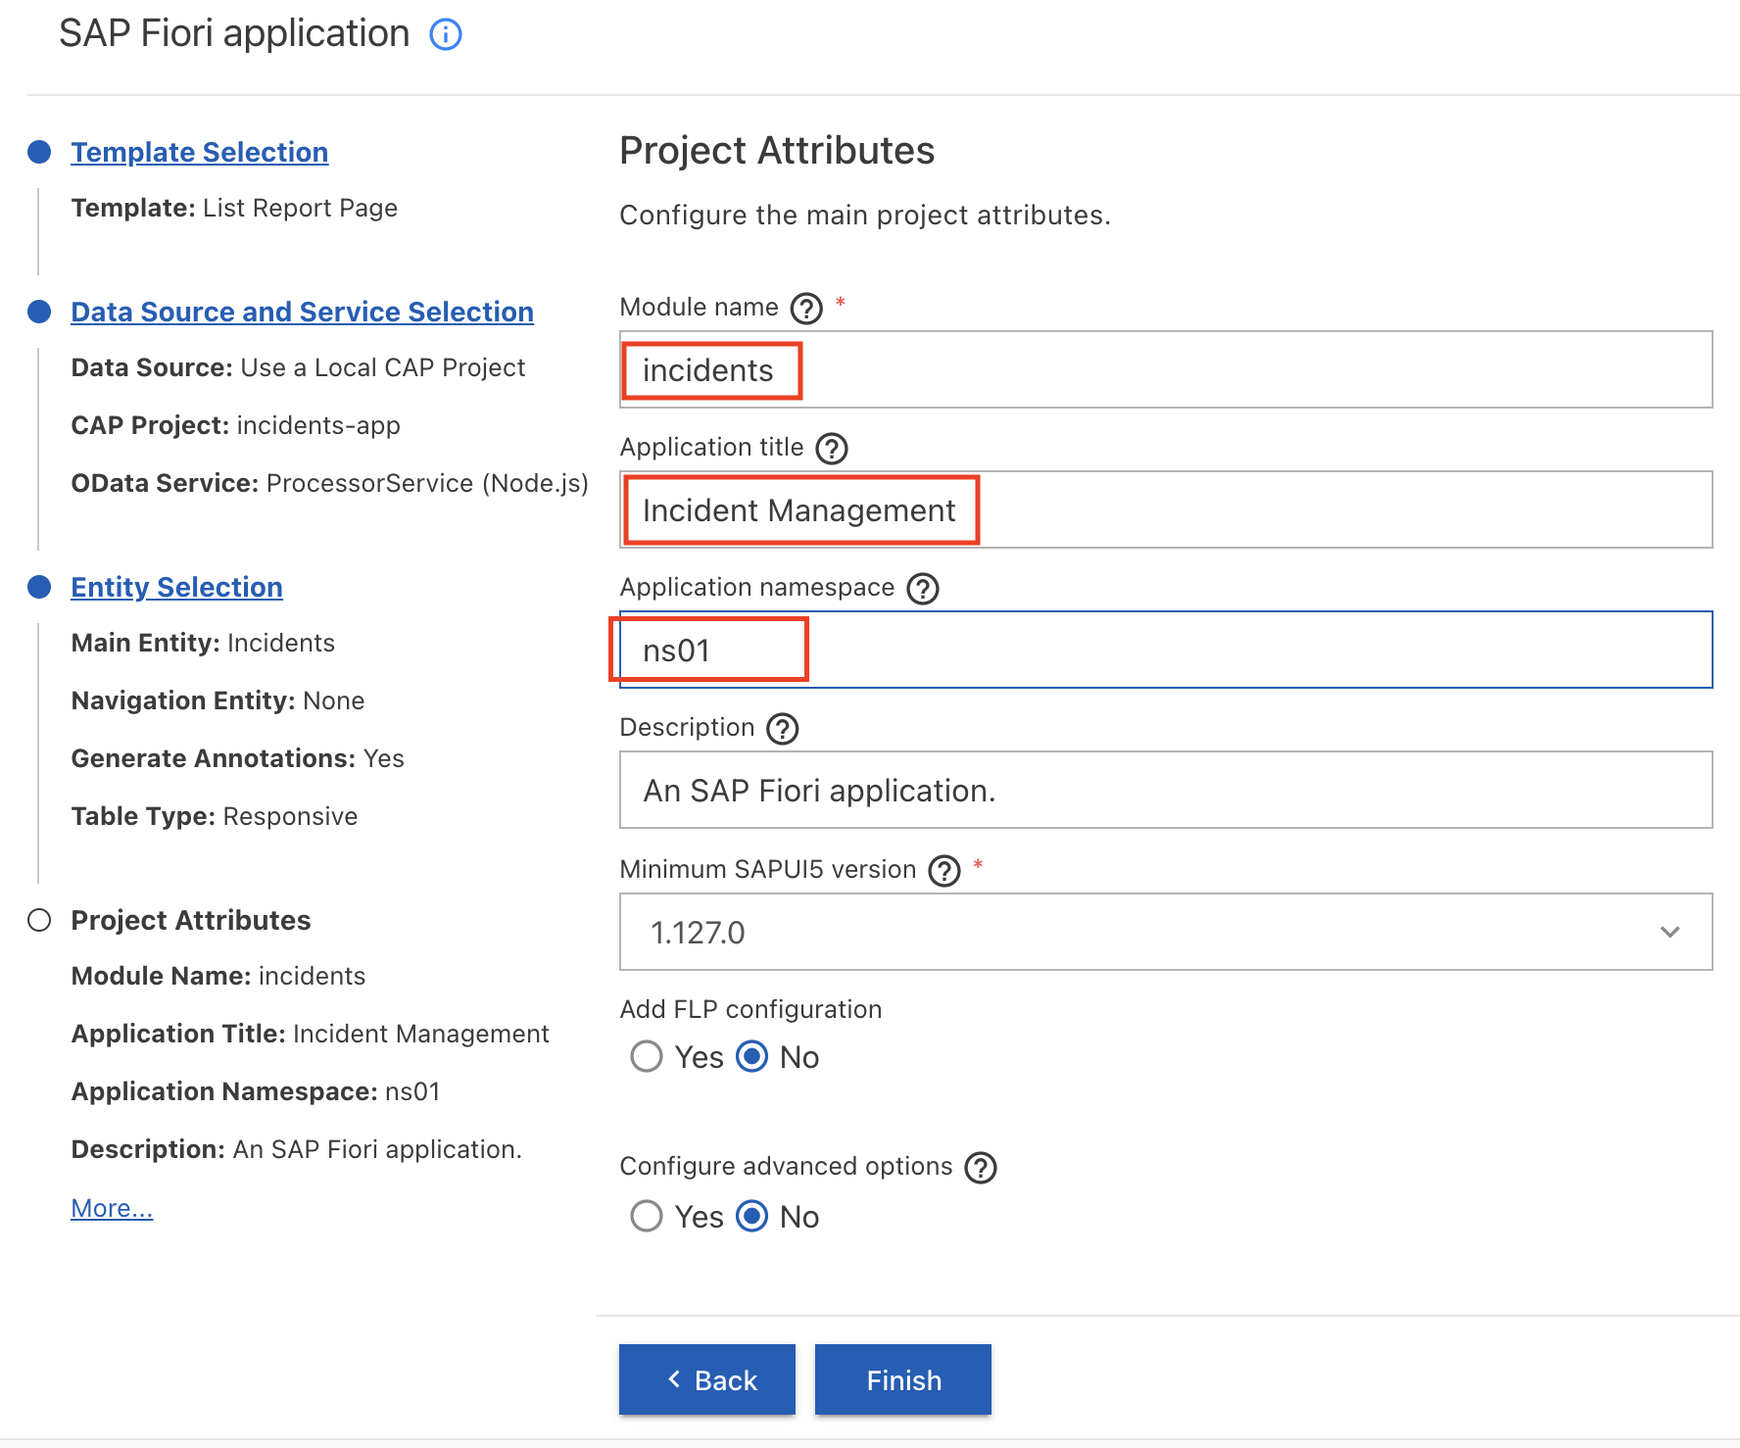
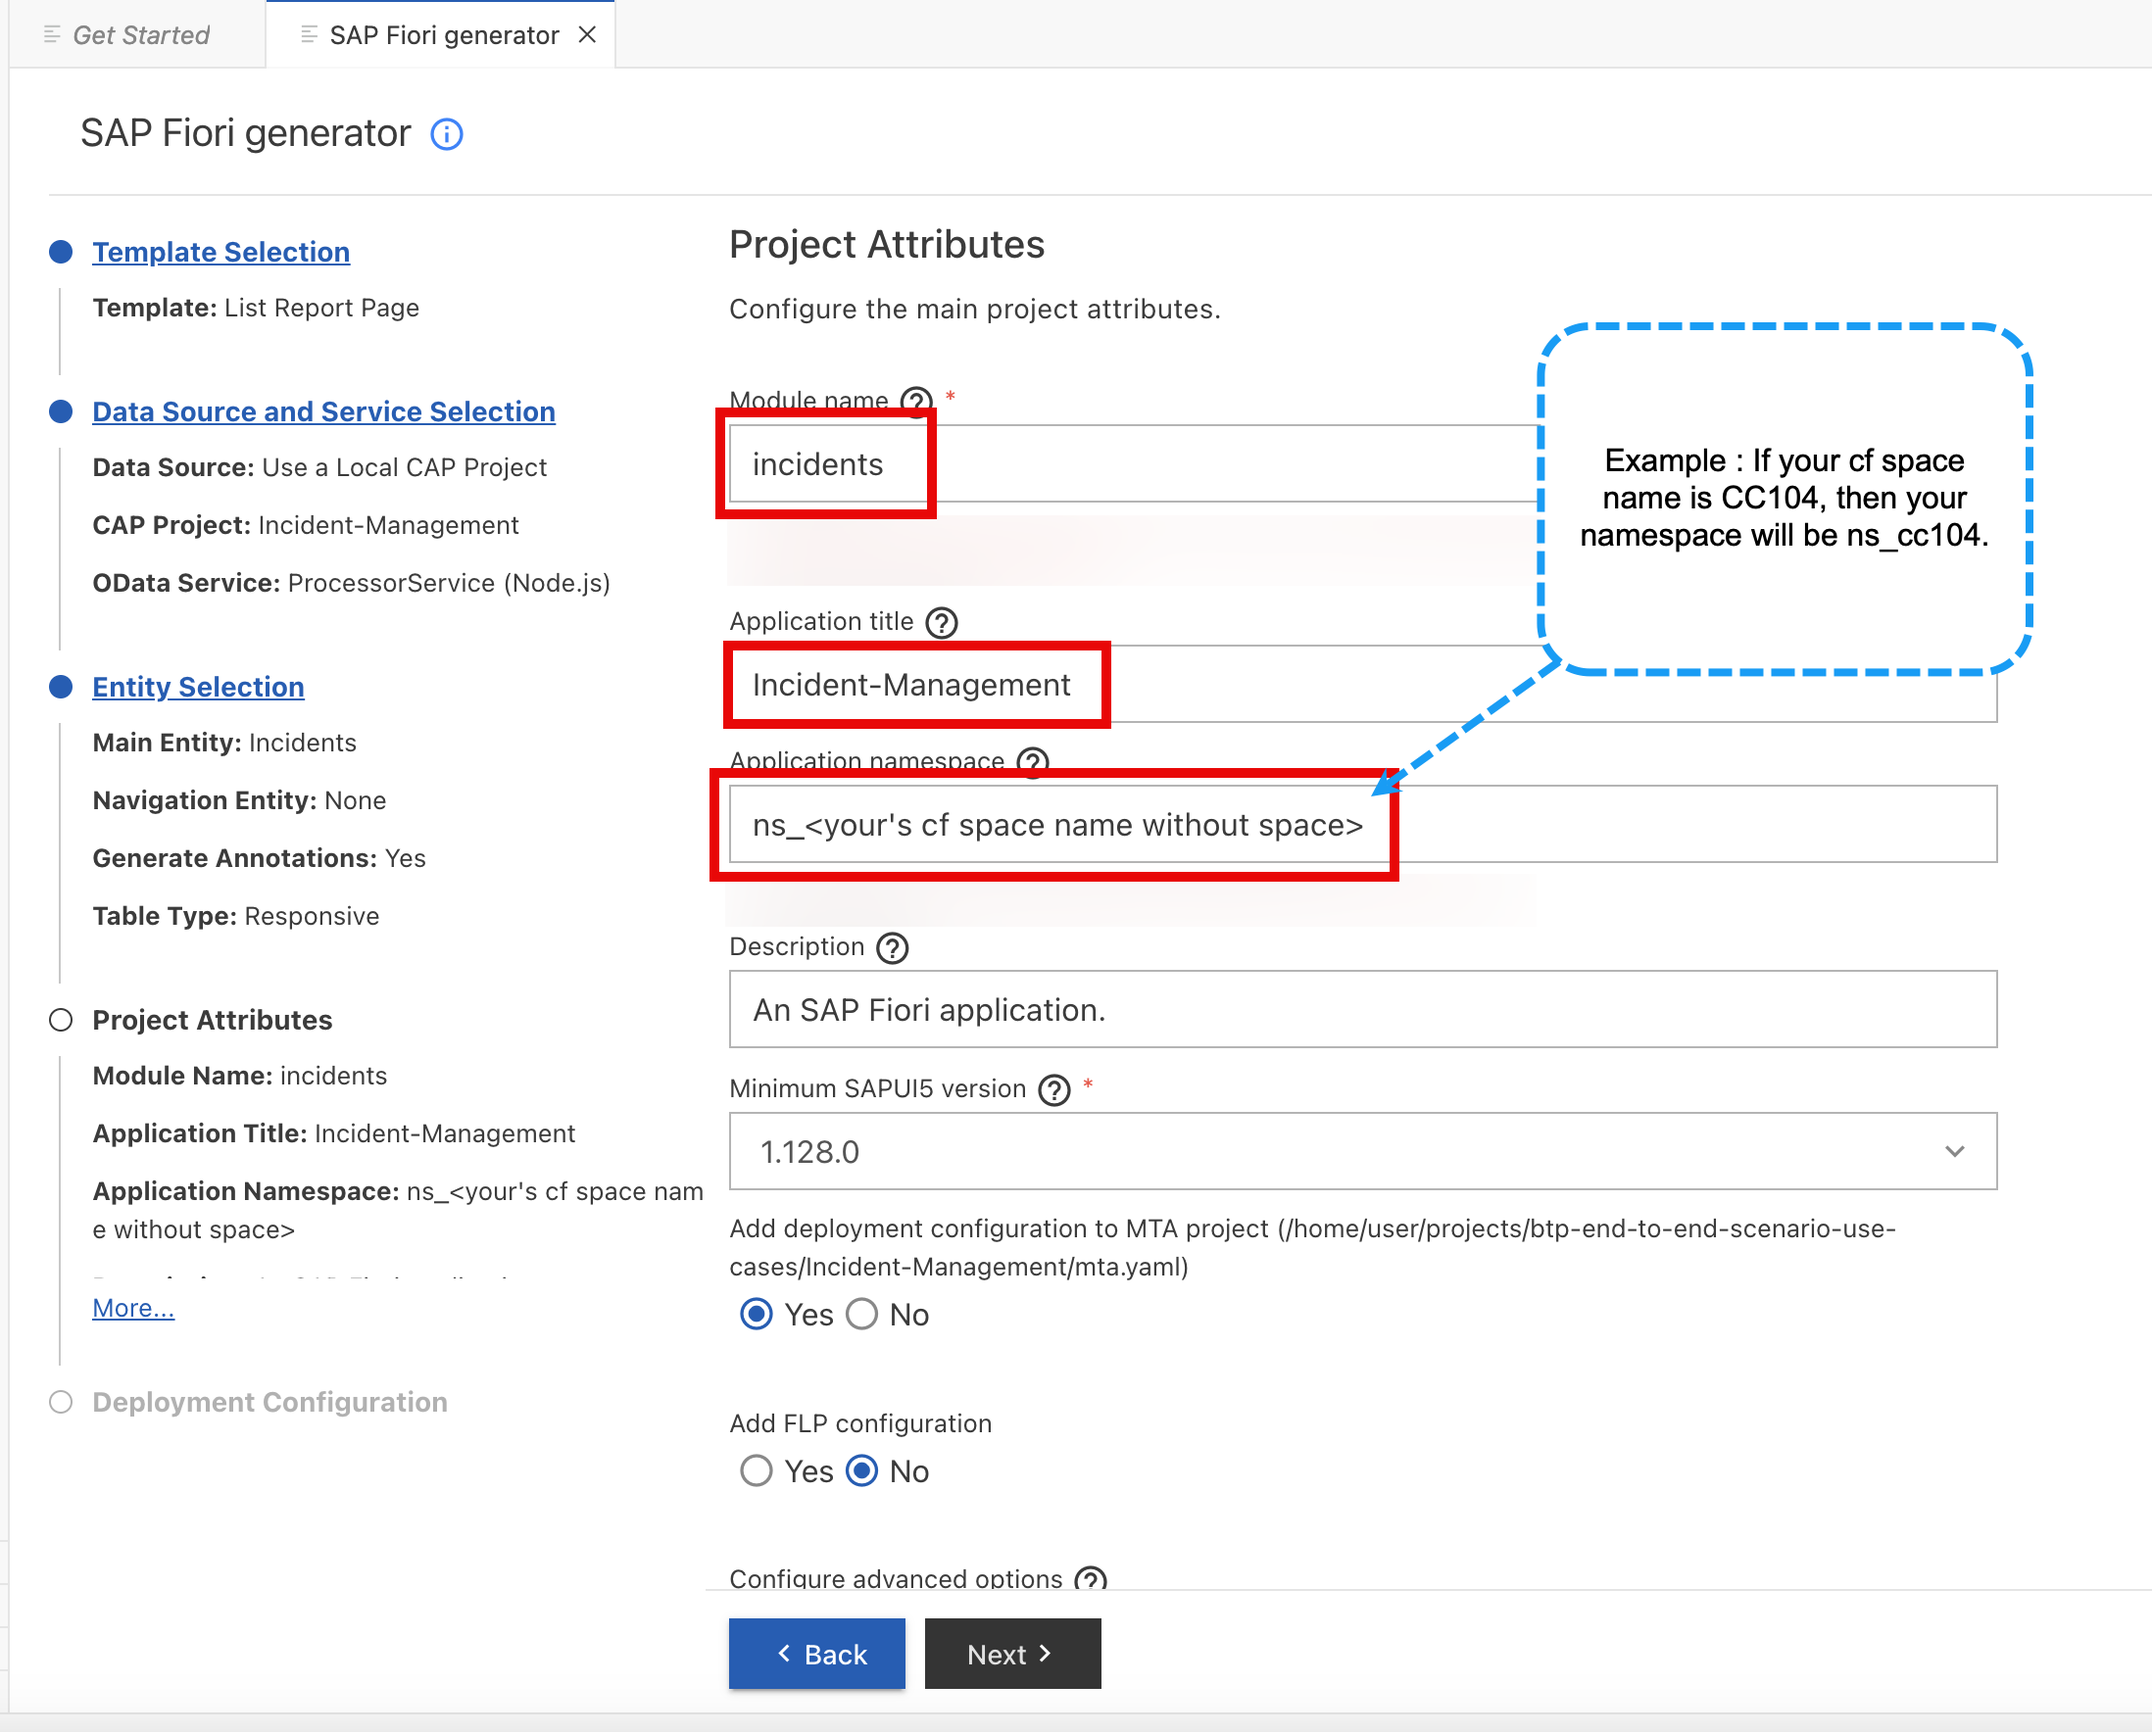
fiori

diff --git a/topic3/docs/generate-fiori-ui.md b/topic3/docs/generate-fiori-ui.md
@@ -69,8 +69,8 @@ SAP Fiori elements provides designs for UI patterns and predefined floorplans fo
     - In the **Application title** field, enter **Incident-Management**.
 
     - In the **Application namespace** field, enter a unique value.
-> [!IMPORTANT]
-> Namespace value should be unique, it's suggested to use your user ID followed by numeric value eg., **UserID-01**. You may also use it same as the unique [Cloud Foundry Space name](https://github.com/SAP-samples/btp-end-to-end-scenario-use-cases/blob/main/topic3/space.md#create-cloud-foundry-space). 
+> [!WARNING]
+> Application Namespace value should be unique, it's suggested to use **ns_** followed by your **Cloud Foundry Space name** without any space.  For example if your cf space name is **CC104**, then your application namespace shall be **ns_cc104**. 
 
 - Leave the default values for all the other settings and choose **Finish**.
 
